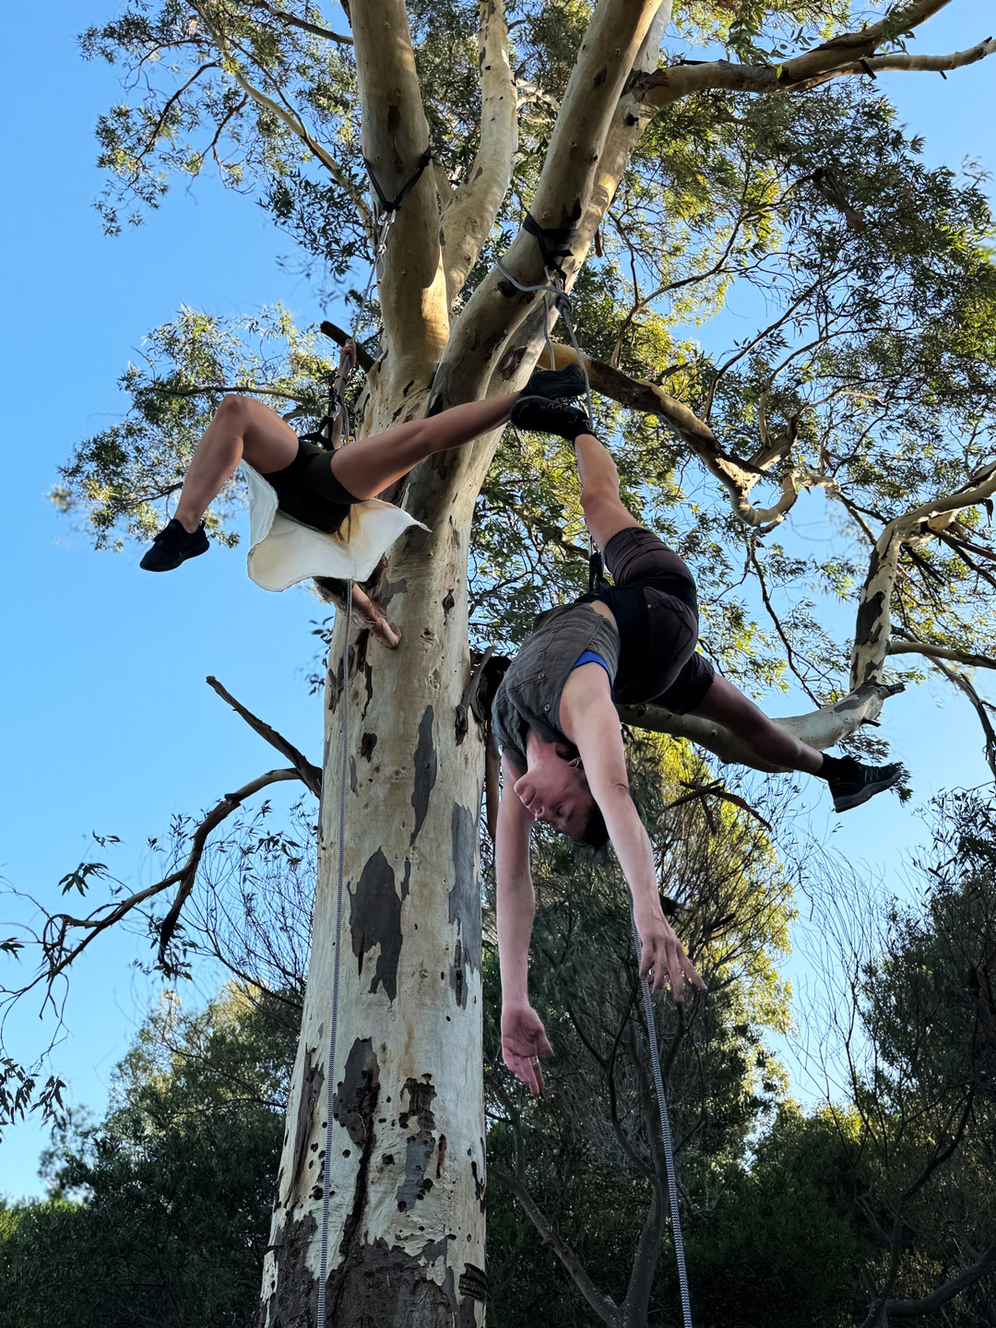
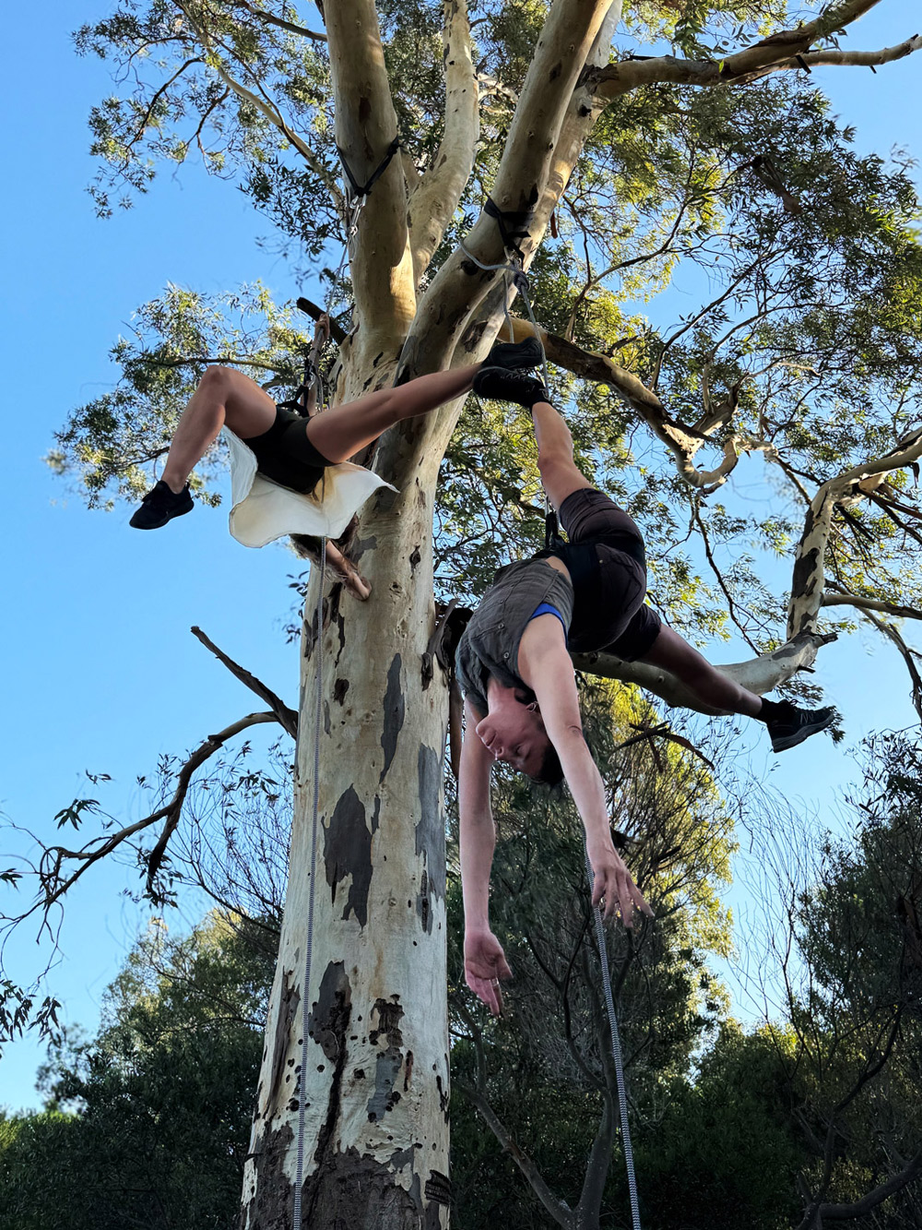
Textos, bios, diseno: somos, manifiesto, nos interesa y secciones
- Bios de Elisa, Agustina Leiva, Leticia Moreno Citraro
- Fotos nuevas: Agus-L, Leti-2, Diego-2/3
- Hero: nuevo tag y caption
- Manifiesto: 3 parrafos nuevos, tercero en fuente menor
- CuerpoTexto: titulo con salto de linea, 3 parrafos separados
- Acciones: nuevo header (Acciones artisticas)
- Nos Interesa: 4 items nuevos, 2 columnas, fondo azul, titulos magenta
- Slider acciones: altura 100vh responsive
- Ajustes tipograficos varios

Changed region(s): [[0.837, 0.2153, 0.868, 0.2461]]

diff --git a/data.js b/data.js
@@ -2,14 +2,15 @@
 
 window.PDF_DATA = {
   hero: {
-    tag: "Colectivo artístico · Danza aérea con arnés + artes escénicas",
-    caption: "Un juego con la gravedad y el equilibrio · La creación de nuevas poéticas corporales",
+    tag: "Danza aérea con arneses + acciones artísticas",
+    caption: "Creación y exploración de poéticas corporales",
   },
 
   manifiesto: {
     parrafos: [
-      "Somos un colectivo artístico que surge en 2022 a partir de búsquedas y exploraciones compartidas en torno a la creación escénica",
-      "Fusionamos la danza aérea con arnés y las artes escénicas desde la creación de poéticas corporales en juego con la luz, el espacio, la gravedad y el equilibrio- en un diálogo constante con el lenguaje audiovisual y el paisaje sonoro-",
+      "Fusionamos la danza aérea con arnés y las artes escénicas para crear intervenciones, performances y obras tanto en salas y espacios convencionales como en el espacio público.",
+      "Somos un colectivo artístico que surge en 2022 a partir de la convergencia de intereses, preguntas y procesos de investigación en torno a la creación escénica contemporánea.",
+      "A partir de la creación de poéticas corporales en juego con la luz, el espacio, y la gravedad- en diálogo constante con el lenguaje audiovisual y el paisaje sonoro- desarrollamos propuestas que dialogan con cada entorno, generando experiencias sensibles e innovadoras que favorecen el encuentro con nuevos públicos.",
     ],
     dossierUrl: "assets/dossier colectivo_2026-.pdf",
     dossierNombre: "dossier-colectivo-2026.pdf",
@@ -21,28 +22,29 @@ window.PDF_DATA = {
     titulo: "somos.",
     intro: "Dentro del colectivo coexisten diversidad de disciplinas y formaciones que aportan desde la singularidad de cada una, colaborando en el entramado y la potencia de la grupalidad. La identidad y sus múltiples intersecciones es un tema que nos atraviesa y que decidimos poner en juego a la hora de la creación",
     integrantes: [
-      { nombre: "Elisa Acosta", bio: null },
-      { nombre: "Agustina Leiva", bio: null },
+      { nombre: "Elisa Acosta", fotos: ["assets/somos/Eli.jpg", "assets/somos/Eli-2.jpg", "assets/somos/Eli-3.JPG", "assets/somos/Eli-4.jpg"], bio: "Dedicada a la primera infancia, Licenciada en Psicomotricidad e instructora de yoga para niñes. Su recorrido profesional y artístico está atravesado por el movimiento, la expresión y la exploración sensible del cuerpo. Inició su camino en la gimnasia olímpica, continuó explorando el universo aéreo a través de la acrobacia en telas y, más tarde, la danza aérea con arnés, una disciplina que la cautivó por su potencia poética y creativa. Actualmente se desempeña como bailarina en el colectivo Punto de Fuga, donde continúa investigando las posibilidades del cuerpo suspendido, la relación con el espacio y la creación escénica." },
+      { nombre: "Agustina Leiva", fotos: ["assets/somos/Agus-L.jpg", "assets/somos/Agus-L-2.jpg", "assets/somos/Agus-L-3.jpg"], bio: "Diseñadora, DJ y artista del movimiento. Su práctica se desarrolla a partir de una búsqueda constante en torno al cuerpo y sus posibilidades expresivas, explorando disciplinas como el yoga, el surf, la escalada, el longboard dancing, el fitness y las acrobacias aéreas. Esta diversidad de experiencias nutre una mirada sensible sobre el movimiento, la creatividad y la relación con el espacio. Actualmente integra el colectivo Punto de Fuga como bailarina aérea y creadora, investigando las posibilidades escénicas del cuerpo suspendido." },
       { nombre: "Florencia Mazzucco", fotos: ["assets/somos/Flo-2.jpg"], bio: null },
-      { nombre: "Leticia Moreno", bio: null },
+      { nombre: "Leticia Moreno Citraro", fotos: ["assets/somos/Leti.jpg", "assets/somos/Leti-2.jpg", "assets/somos/Leti-3.JPG"], bio: "Arquitecta, con una práctica que explora los vínculos entre arquitectura, naturaleza y paisaje de una forma sensible y consciente. Con una formación permanente y continua en diferentes disciplinas artísticas tanto plásticas como del movimiento, encuentra en la danza aérea un lenguaje capaz de articular y potenciar los múltiples intereses formativos, vinculando el cuerpo, el espacio, el movimiento y la percepción, destacando su potencia expresiva para comunicar ideas y explorar nuevos sentidos, siendo un vector creativo personal fundamental. Participó como co-creadora e intérprete de danza aérea en Guarecerse (2024), una experiencia multisensorial en un sendero natural, obra desarrollada en Villa Serrana con apoyo del MEC. Desde el 2024 integra el Colectivo Punto de Fuga, participando como co-creadora y bailarina aérea." },
       { nombre: "Anaclara Oyenart", fotos: ["assets/somos/Anaclara.jpg", "assets/somos/Anaclara-2.jpg", "assets/somos/Anaclara-3.jpg", "assets/somos/Anaclara-4.JPG", "assets/somos/Anaclara-5.jpg"], bio: "Licenciada en Diseño de Comunicación Visual y artista escénica con trayectoria en danza aérea con arnés. Forma parte de Punto de Fuga desde sus inicios, donde confluyen su práctica escénica y su trabajo como diseñadora — responsable de la identidad visual del colectivo. Con más de 15 años de formación continua en disciplinas aéreas y circenses, desarrolla proyectos en el cruce entre diseño, gestión cultural y escena." },
       { nombre: "Stella Peña", fotos: ["assets/somos/stella.jpg", "assets/somos/stella-2.jpg", "assets/somos/stella-3.jpg", "assets/somos/stella-4.jpg", "assets/somos/stella-5.jpg"], bio: "Bailarina, acróbata, aerealista y química. Realizó un doctorado en Química donde la mayor parte del tiempo estaba creando y sintetizando compuestos químicos bioactivos. Por lo que la experimentación y la investigación atraviesan sus poros tanto a nivel científico como a través del movimiento y la fusión de danza contemporánea y circo. Es directora de la obra PLASTIKUS, ha integrado diversos colectivos de danza y circo como Prácticas Bestiales, Proyecto Incorporar, ENTRE, Fúa, La Masa, Invertidos Circo. Actualmente es bailarina aérea y creadora en el Colectivo Punto de Fuga. Cuenta con más de 18 años de experiencia docente en acrobacias aéreas, donde desarrolla una pedagogía integral enfocada en el desarrollo humano." },
       { nombre: "Agustina Rodríguez", bio: null },
-      { nombre: "Diego Ruella", fotos: ["assets/somos/diego.jpg"], bio: "Artista escénico, coreógrafo y docente. Formado en Fotografía (Udelar), Docencia en Danza (IPA) y Danza Contemporánea (SODRE), complementa su trayectoria con estudios en acrobacia y danza aérea con arneses. Integra la Red de Artes Circenses del Uruguay (RACU) y el colectivo Punto de Fuga. Ha participado en producciones junto a La Fura dels Baus y en obras de danza contemporánea como Suite Gardel, Transparente y EX-ES, entre otras. Es co-creador de Buscar Nada en Ti y R.O.J.O. (Premio Jóvenes Creadores). Dirige y produce proyectos de danza contemporánea y danza aérea con arneses." },
+      { nombre: "Diego Ruella", fotos: ["assets/somos/diego.jpg", "assets/somos/Diego-2.JPG", "assets/somos/Diego-3.JPG"], bio: "Artista escénico, coreógrafo y docente. Formado en Fotografía (Udelar), Docencia en Danza (IPA) y Danza Contemporánea (SODRE), complementa su trayectoria con estudios en acrobacia y danza aérea con arneses. Integra la Red de Artes Circenses del Uruguay (RACU) y el colectivo Punto de Fuga. Ha participado en producciones junto a La Fura dels Baus y en obras de danza contemporánea como Suite Gardel, Transparente y EX-ES, entre otras. Es co-creador de Buscar Nada en Ti y R.O.J.O. (Premio Jóvenes Creadores). Dirige y produce proyectos de danza contemporánea y danza aérea con arneses." },
     ],
   },
 
   cuerpo: {
-    titulo: "Metodología de creación — del cuerpo al texto",
+    titulo: "Metodología de creación\ndel cuerpo al texto, y del texto al cuerpo",
     parrafos: [
-      "Trabajamos a partir de improvisaciones y estructuras compositivas que guían la creación.  Concebimos la obra como organismo vivo.",
+      "Trabajamos a partir de improvisaciones y estructuras compositivas que guían la creación.",
+      "Concebimos la obra como organismo vivo.",
       "La danza aérea con arnés nos permite desafiar la gravedad y expandir las posibilidades de movimiento en diálogo con el espacio y el equilibrio",
     ],
   },
 
   accionesMeta: {
-    num: "Acciones performáticas",
-    titulo: "Obras, performances e intervenciones",
+    num: "Acciones artísticas",
+    titulo: "| obras | performances | intervenciones |",
   },
 
   acciones: [
@@ -291,24 +293,20 @@ window.PDF_DATA = {
 
   nosInteresa: [
     {
-      lead: "Facilitar el acceso a la cultura y el arte",
-      cuerpo: "a través de intervenciones artísticas en espacios abiertos a la comunidad, promoviendo el sentido de pertenencia y el uso del espacio público como un lugar de encuentro y disfrute.",
+      lead: "Explorar y crear",
+      cuerpo: "a través de la danza aérea en diálogo con otros lenguajes, piezas escénicas singulares con identidad propia.",
     },
     {
-      lead: "Difundir la danza aérea con arnés",
-      cuerpo: "una disciplina poco explorada en Uruguay, destacando su potencial para la investigación y la exploración del trabajo con el cuerpo.",
+      lead: "Realizar intervenciones artísticas diversas",
+      cuerpo: "y adaptables a múltiples espacios escénicos.",
     },
     {
-      lead: "Crear instancias de encuentro con la comunidad",
-      cuerpo: "donde la práctica corporal y artística en el espacio público se convierta en una experiencia compartida y significativa.",
+      lead: "Favorecer encuentros",
+      cuerpo: "a través de intervenciones en espacios abiertos a la comunidad, promoviendo el sentido de pertenencia y el uso del espacio público.",
     },
     {
-      lead: "Explorar y crear mediante la danza aérea en arnés",
-      cuerpo: "piezas escénicas singulares con una identidad propia.",
-    },
-    {
-      lead: "Realizar intervenciones artísticas múltiples",
-      cuerpo: "adaptables a diversos espacios escénicos.",
+      lead: "Difundir la danza aérea con arneses",
+      cuerpo: "destacando su potencial para la investigación y la exploración del trabajo con el cuerpo.",
     },
   ],
 

diff --git a/datos.js b/datos.js
@@ -2,14 +2,15 @@
 
 window.PDF_DATA = {
   hero: {
-    tag: "Colectivo artístico · Danza aérea con arnés + artes escénicas",
-    caption: "Un juego con la gravedad y el equilibrio · La creación de nuevas poéticas corporales",
+    tag: "Danza aérea con arneses + acciones artísticas",
+    caption: "Creación y exploración de poéticas corporales",
   },
 
   manifiesto: {
     parrafos: [
-      "Somos un colectivo artístico que surge en 2022 a partir de búsquedas y exploraciones compartidas en torno a la creación escénica",
-      "Fusionamos la danza aérea con arnés y las artes escénicas desde la creación de poéticas corporales en juego con la luz, el espacio, la gravedad y el equilibrio- en un diálogo constante con el lenguaje audiovisual y el paisaje sonoro-",
+      "Fusionamos la danza aérea con arnés y las artes escénicas para crear intervenciones, performances y obras tanto en salas y espacios convencionales como en el espacio público.",
+      "Somos un colectivo artístico que surge en 2022 a partir de la convergencia de intereses, preguntas y procesos de investigación en torno a la creación escénica contemporánea.",
+      "A partir de la creación de poéticas corporales en juego con la luz, el espacio, y la gravedad- en diálogo constante con el lenguaje audiovisual y el paisaje sonoro- desarrollamos propuestas que dialogan con cada entorno, generando experiencias sensibles e innovadoras que favorecen el encuentro con nuevos públicos.",
     ],
     dossierUrl: "assets/dossier colectivo_2026-.pdf",
     dossierNombre: "dossier-colectivo-2026.pdf",
@@ -21,28 +22,29 @@ window.PDF_DATA = {
     titulo: "somos.",
     intro: "Dentro del colectivo coexisten diversidad de disciplinas y formaciones que aportan desde la singularidad de cada una, colaborando en el entramado y la potencia de la grupalidad. La identidad y sus múltiples intersecciones es un tema que nos atraviesa y que decidimos poner en juego a la hora de la creación",
     integrantes: [
-      { nombre: "Elisa Acosta", bio: null },
-      { nombre: "Agustina Leiva", bio: null },
+      { nombre: "Elisa Acosta", fotos: ["assets/somos/Eli.jpg", "assets/somos/Eli-2.jpg", "assets/somos/Eli-3.JPG", "assets/somos/Eli-4.jpg"], bio: "Dedicada a la primera infancia, Licenciada en Psicomotricidad e instructora de yoga para niñes. Su recorrido profesional y artístico está atravesado por el movimiento, la expresión y la exploración sensible del cuerpo. Inició su camino en la gimnasia olímpica, continuó explorando el universo aéreo a través de la acrobacia en telas y, más tarde, la danza aérea con arnés, una disciplina que la cautivó por su potencia poética y creativa. Actualmente se desempeña como bailarina en el colectivo Punto de Fuga, donde continúa investigando las posibilidades del cuerpo suspendido, la relación con el espacio y la creación escénica." },
+      { nombre: "Agustina Leiva", fotos: ["assets/somos/Agus-L.jpg", "assets/somos/Agus-L-2.jpg", "assets/somos/Agus-L-3.jpg"], bio: "Diseñadora, DJ y artista del movimiento. Su práctica se desarrolla a partir de una búsqueda constante en torno al cuerpo y sus posibilidades expresivas, explorando disciplinas como el yoga, el surf, la escalada, el longboard dancing, el fitness y las acrobacias aéreas. Esta diversidad de experiencias nutre una mirada sensible sobre el movimiento, la creatividad y la relación con el espacio. Actualmente integra el colectivo Punto de Fuga como bailarina aérea y creadora, investigando las posibilidades escénicas del cuerpo suspendido." },
       { nombre: "Florencia Mazzucco", fotos: ["assets/somos/Flo-2.jpg"], bio: null },
-      { nombre: "Leticia Moreno", bio: null },
+      { nombre: "Leticia Moreno Citraro", fotos: ["assets/somos/Leti.jpg", "assets/somos/Leti-2.jpg", "assets/somos/Leti-3.JPG"], bio: "Arquitecta, con una práctica que explora los vínculos entre arquitectura, naturaleza y paisaje de una forma sensible y consciente. Con una formación permanente y continua en diferentes disciplinas artísticas tanto plásticas como del movimiento, encuentra en la danza aérea un lenguaje capaz de articular y potenciar los múltiples intereses formativos, vinculando el cuerpo, el espacio, el movimiento y la percepción, destacando su potencia expresiva para comunicar ideas y explorar nuevos sentidos, siendo un vector creativo personal fundamental. Participó como co-creadora e intérprete de danza aérea en Guarecerse (2024), una experiencia multisensorial en un sendero natural, obra desarrollada en Villa Serrana con apoyo del MEC. Desde el 2024 integra el Colectivo Punto de Fuga, participando como co-creadora y bailarina aérea." },
       { nombre: "Anaclara Oyenart", fotos: ["assets/somos/Anaclara.jpg", "assets/somos/Anaclara-2.jpg", "assets/somos/Anaclara-3.jpg", "assets/somos/Anaclara-4.JPG", "assets/somos/Anaclara-5.jpg"], bio: "Licenciada en Diseño de Comunicación Visual y artista escénica con trayectoria en danza aérea con arnés. Forma parte de Punto de Fuga desde sus inicios, donde confluyen su práctica escénica y su trabajo como diseñadora — responsable de la identidad visual del colectivo. Con más de 15 años de formación continua en disciplinas aéreas y circenses, desarrolla proyectos en el cruce entre diseño, gestión cultural y escena." },
       { nombre: "Stella Peña", fotos: ["assets/somos/stella.jpg", "assets/somos/stella-2.jpg", "assets/somos/stella-3.jpg", "assets/somos/stella-4.jpg", "assets/somos/stella-5.jpg"], bio: "Bailarina, acróbata, aerealista y química. Realizó un doctorado en Química donde la mayor parte del tiempo estaba creando y sintetizando compuestos químicos bioactivos. Por lo que la experimentación y la investigación atraviesan sus poros tanto a nivel científico como a través del movimiento y la fusión de danza contemporánea y circo. Es directora de la obra PLASTIKUS, ha integrado diversos colectivos de danza y circo como Prácticas Bestiales, Proyecto Incorporar, ENTRE, Fúa, La Masa, Invertidos Circo. Actualmente es bailarina aérea y creadora en el Colectivo Punto de Fuga. Cuenta con más de 18 años de experiencia docente en acrobacias aéreas, donde desarrolla una pedagogía integral enfocada en el desarrollo humano." },
       { nombre: "Agustina Rodríguez", bio: null },
-      { nombre: "Diego Ruella", fotos: ["assets/somos/diego.jpg"], bio: "Artista escénico, coreógrafo y docente. Formado en Fotografía (Udelar), Docencia en Danza (IPA) y Danza Contemporánea (SODRE), complementa su trayectoria con estudios en acrobacia y danza aérea con arneses. Integra la Red de Artes Circenses del Uruguay (RACU) y el colectivo Punto de Fuga. Ha participado en producciones junto a La Fura dels Baus y en obras de danza contemporánea como Suite Gardel, Transparente y EX-ES, entre otras. Es co-creador de Buscar Nada en Ti y R.O.J.O. (Premio Jóvenes Creadores). Dirige y produce proyectos de danza contemporánea y danza aérea con arneses." },
+      { nombre: "Diego Ruella", fotos: ["assets/somos/diego.jpg", "assets/somos/Diego-2.JPG", "assets/somos/Diego-3.JPG"], bio: "Artista escénico, coreógrafo y docente. Formado en Fotografía (Udelar), Docencia en Danza (IPA) y Danza Contemporánea (SODRE), complementa su trayectoria con estudios en acrobacia y danza aérea con arneses. Integra la Red de Artes Circenses del Uruguay (RACU) y el colectivo Punto de Fuga. Ha participado en producciones junto a La Fura dels Baus y en obras de danza contemporánea como Suite Gardel, Transparente y EX-ES, entre otras. Es co-creador de Buscar Nada en Ti y R.O.J.O. (Premio Jóvenes Creadores). Dirige y produce proyectos de danza contemporánea y danza aérea con arneses." },
     ],
   },
 
   cuerpo: {
-    titulo: "Metodología de creación — del cuerpo al texto",
+    titulo: "Metodología de creación\ndel cuerpo al texto, y del texto al cuerpo",
     parrafos: [
-      "Trabajamos a partir de improvisaciones y estructuras compositivas que guían la creación.  Concebimos la obra como organismo vivo.",
+      "Trabajamos a partir de improvisaciones y estructuras compositivas que guían la creación.",
+      "Concebimos la obra como organismo vivo.",
       "La danza aérea con arnés nos permite desafiar la gravedad y expandir las posibilidades de movimiento en diálogo con el espacio y el equilibrio",
     ],
   },
 
   accionesMeta: {
-    num: "Acciones performáticas",
-    titulo: "Obras, performances e intervenciones",
+    num: "Acciones artísticas",
+    titulo: "| obras | performances | intervenciones |",
   },
 
   acciones: [
@@ -342,24 +344,20 @@ window.PDF_DATA = {
 
   nosInteresa: [
     {
-      lead: "Facilitar el acceso a la cultura y el arte",
-      cuerpo: "a través de intervenciones artísticas en espacios abiertos a la comunidad, promoviendo el sentido de pertenencia y el uso del espacio público como un lugar de encuentro y disfrute.",
+      lead: "Explorar y crear",
+      cuerpo: "a través de la danza aérea en diálogo con otros lenguajes, piezas escénicas singulares con identidad propia.",
     },
     {
-      lead: "Difundir la danza aérea con arnés",
-      cuerpo: "una disciplina poco explorada en Uruguay, destacando su potencial para la investigación y la exploración del trabajo con el cuerpo.",
+      lead: "Realizar intervenciones artísticas diversas",
+      cuerpo: "y adaptables a múltiples espacios escénicos.",
     },
     {
-      lead: "Crear instancias de encuentro con la comunidad",
-      cuerpo: "donde la práctica corporal y artística en el espacio público se convierta en una experiencia compartida y significativa.",
+      lead: "Favorecer encuentros",
+      cuerpo: "a través de intervenciones en espacios abiertos a la comunidad, promoviendo el sentido de pertenencia y el uso del espacio público.",
     },
     {
-      lead: "Explorar y crear mediante la danza aérea en arnés",
-      cuerpo: "piezas escénicas singulares con una identidad propia.",
-    },
-    {
-      lead: "Realizar intervenciones artísticas múltiples",
-      cuerpo: "adaptables a diversos espacios escénicos.",
+      lead: "Difundir la danza aérea con arneses",
+      cuerpo: "destacando su potencial para la investigación y la exploración del trabajo con el cuerpo.",
     },
   ],
 

diff --git a/styles.css b/styles.css
@@ -363,7 +363,7 @@ section {
 
 .hero__caption {
   font-family: var(--mono);
-  font-size: 12px;
+  font-size: 15px;
   letter-spacing: 0.12em;
   text-transform: uppercase;
   text-align: right;
@@ -473,8 +473,14 @@ section {
   font-size: clamp(22px, 2.6vw, 34px);
   line-height: 1.25;
   letter-spacing: -0.015em;
-  max-width: 22ch;
+  max-width: 34ch;
   text-wrap: pretty;
+}
+
+.manifiesto__body p:nth-child(3) {
+  font-size: clamp(15px, 1.4vw, 18px);
+  line-height: 1.55;
+  color: color-mix(in srgb, var(--fg) 70%, transparent);
 }
 
 .manifiesto__body em {
@@ -536,7 +542,9 @@ section {
 .featured__media {
   position: relative;
   width: 100%;
-  aspect-ratio: 16 / 9;
+  height: calc(100vh - 64px);
+  max-height: 860px;
+  min-height: 480px;
   background: #0a0a0a;
   overflow: hidden;
 }
@@ -957,7 +965,7 @@ section {
 
 .cuerpo-texto__text h3 {
   font-family: var(--mono);
-  font-size: 12px;
+  font-size: 15px;
   letter-spacing: 0.15em;
   text-transform: uppercase;
   color: rgba(255, 255, 255, 0.5);
@@ -1173,8 +1181,15 @@ section {
 
 .nos-interesa {
   padding: 120px var(--gutter) 100px;
-  background: var(--bg);
-  border-top: 1px solid var(--line-soft);
+  background: var(--azul);
+  border-top: none;
+  color: #fff;
+}
+
+.nos-interesa .section-head__num {
+  color: rgba(255, 255, 255, 0.55);
+  font-size: 16px;
+  letter-spacing: 0.18em;
 }
 
 .nos-interesa__title {
@@ -1184,14 +1199,28 @@ section {
   letter-spacing: -0.04em;
   line-height: 0.85;
   margin-bottom: 80px;
+  color: var(--magenta);
 }
 
 .nos-interesa__lista {
   list-style: none;
   display: grid;
-  grid-template-columns: repeat(3, 1fr);
+  grid-template-columns: repeat(2, 1fr);
   column-gap: clamp(32px, 4vw, 64px);
-  border-top: 3px solid var(--fg);
+}
+
+.nos-interesa__lista::before {
+  content: "";
+  grid-column: 1 / -1;
+  height: 3px;
+  background: rgba(255, 255, 255, 0.25);
+  transform: scaleX(0);
+  transform-origin: left;
+  transition: transform 0.9s cubic-bezier(0.16, 1, 0.3, 1);
+}
+
+.nos-interesa.is-visible .nos-interesa__lista::before {
+  transform: scaleX(1);
 }
 
 .nos-interesa__item {
@@ -1200,8 +1229,9 @@ section {
   font-size: clamp(15px, 1.4vw, 18px);
   line-height: 1.6;
   padding: 40px 0 40px;
-  border-bottom: 3px solid;
+  border-bottom: 3px solid rgba(255, 255, 255, 0.15);
   text-wrap: pretty;
+  color: rgba(255, 255, 255, 0.75);
 }
 
 .nos-interesa__item strong {
@@ -1211,15 +1241,8 @@ section {
   letter-spacing: -0.02em;
   line-height: 1.1;
   margin-bottom: 20px;
+  color: #fff;
 }
-
-.nos-interesa__item:nth-child(1),
-.nos-interesa__item:nth-child(2),
-.nos-interesa__item:nth-child(3) { border-color: var(--fg); }
-
-.nos-interesa__item:nth-child(1) strong { color: var(--turquesa); }
-.nos-interesa__item:nth-child(2) strong { color: var(--turquesa); }
-.nos-interesa__item:nth-child(3) strong { color: var(--turquesa); }
 
 @media (max-width: 900px) {
   .nos-interesa__lista {

diff --git a/components.jsx b/components.jsx
@@ -145,15 +145,16 @@ function Manifiesto() {
       </aside>
       <div className="manifiesto__body">
         <p>
-          {D.manifiesto.parrafos[0].split("2022").map((part, i) =>
-            i === 0 ? part : [<span key={i} className="manifiesto__highlight">2022</span>, part]
-          )}
-        </p>
-        <p>
-          {D.manifiesto.parrafos[1].split("danza aérea con arnés").map((part, i) =>
+          {D.manifiesto.parrafos[0].split("danza aérea con arnés").map((part, i) =>
             i === 0 ? part : [<em key={i}>danza aérea con arnés</em>, part]
           )}
         </p>
+        <p>
+          {D.manifiesto.parrafos[1].split("2022").map((part, i) =>
+            i === 0 ? part : [<span key={i} className="manifiesto__highlight">2022</span>, part]
+          )}
+        </p>
+        <p>{D.manifiesto.parrafos[2]}</p>
         <a className="manifiesto__cta" href={D.manifiesto.dossierUrl} download={D.manifiesto.dossierNombre}>
           Descargar dossier <span>↓</span>
         </a>
@@ -325,7 +326,7 @@ function CuerpoTexto() {
         <div className="cuerpo-texto__media-stripes" />
       </div>
       <div className="cuerpo-texto__text">
-        <h3>{D.cuerpo.titulo}</h3>
+        <h3>{D.cuerpo.titulo.split("\n").map((line, i) => i === 0 ? line : [<br key={i}/>, line])}</h3>
         {D.cuerpo.parrafos.map((p, i) => <p key={i}>{p}</p>)}
       </div>
     </section>
@@ -451,7 +452,7 @@ function NosInteresa() {
   return (
     <section className="nos-interesa reveal" id="nos-interesa">
       <div className="section-head" style={{ padding: 0, border: "none" }}>
-        <div className="section-head__num">Nos interesa</div>
+        <div className="section-head__num">Experimentar · Crear · Compartir</div>
       </div>
       <h2 className="nos-interesa__title">nos interesa.</h2>
       <ul className="nos-interesa__lista">
